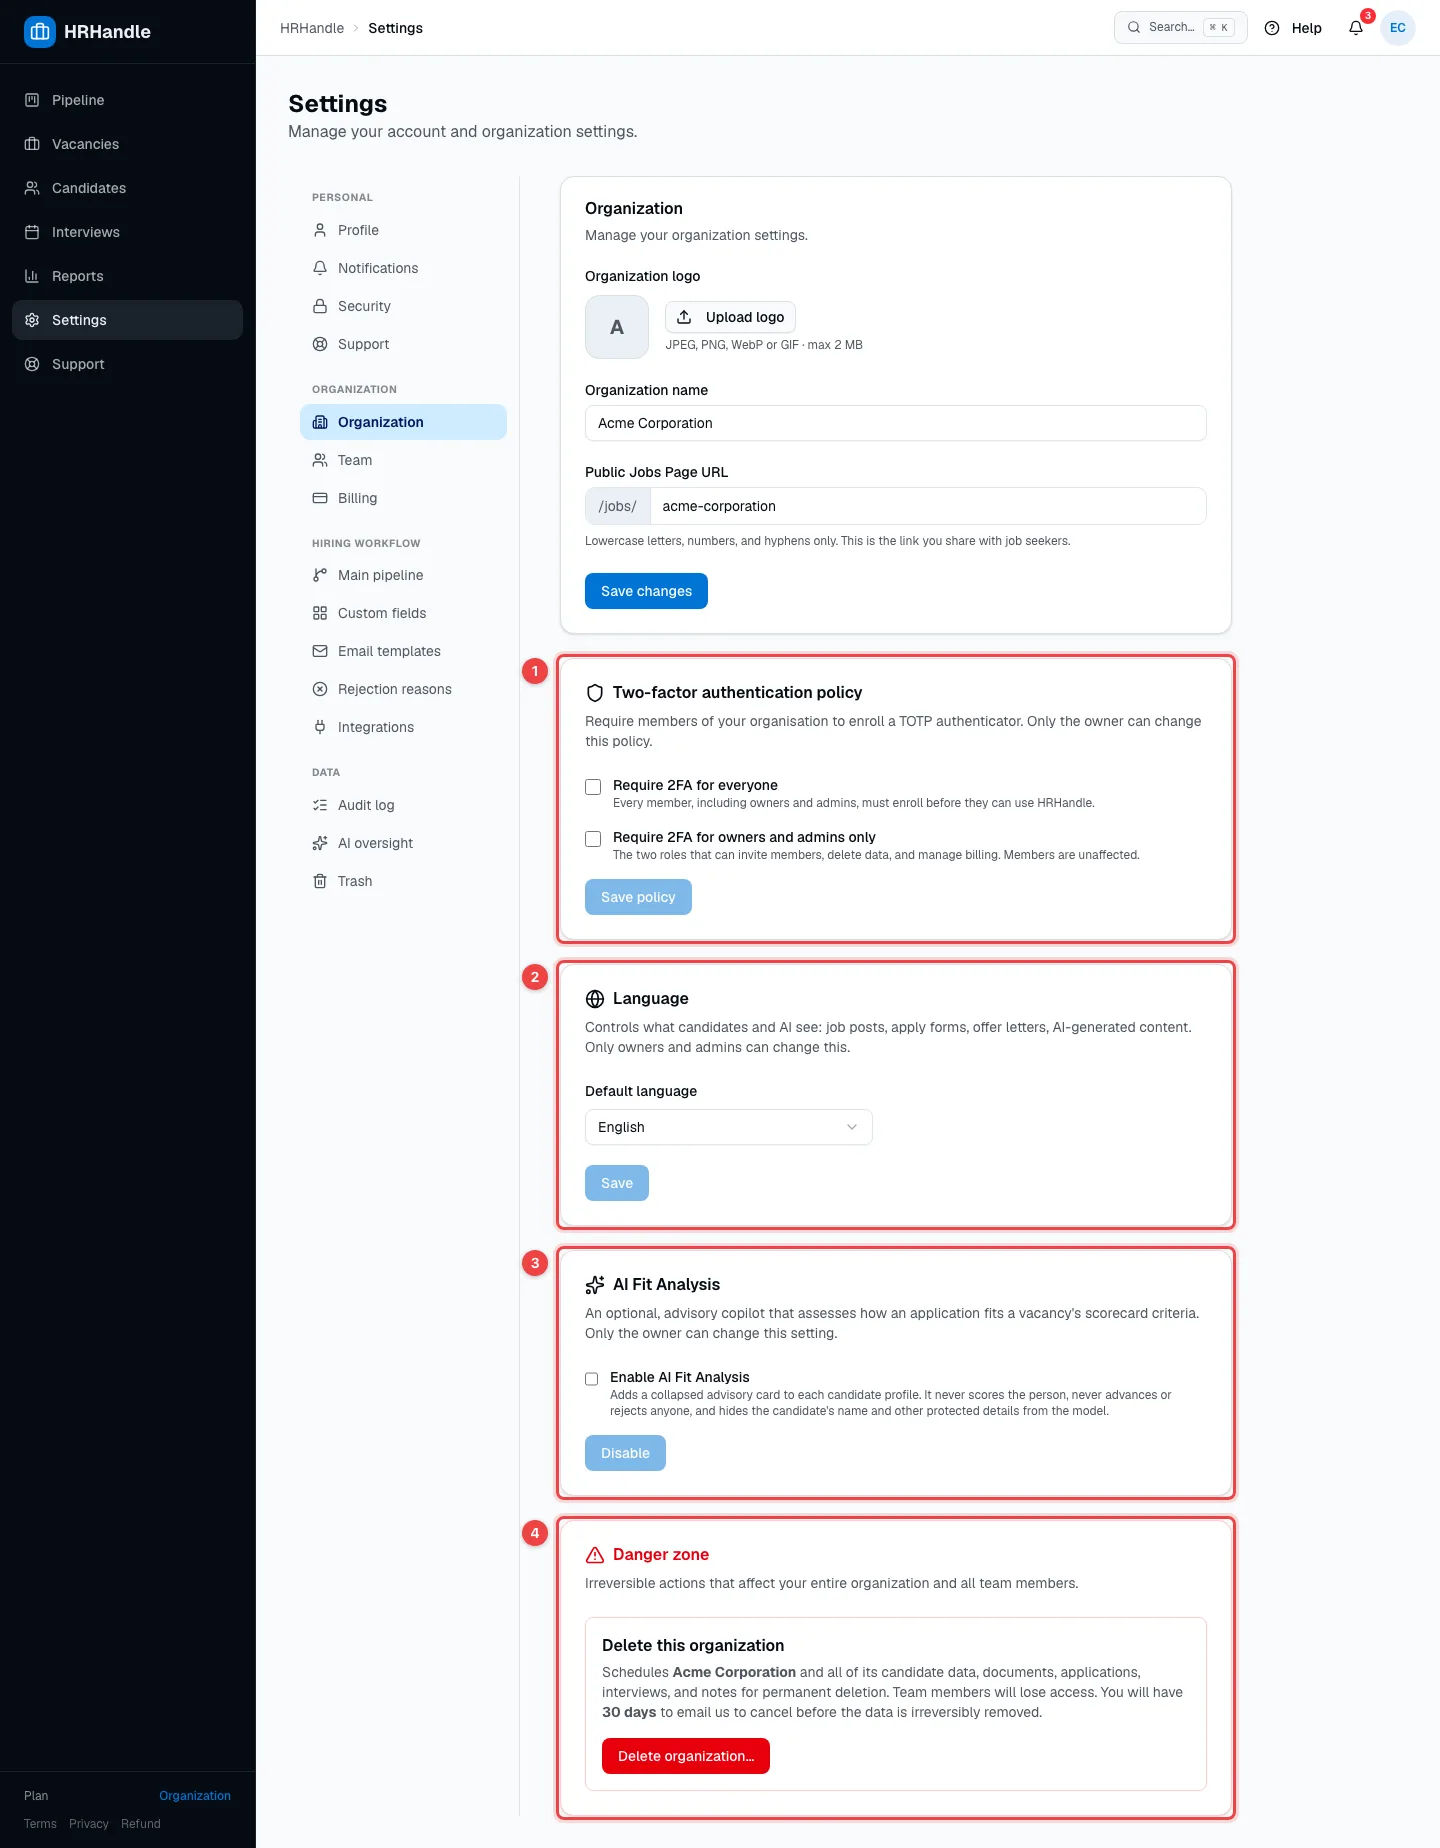
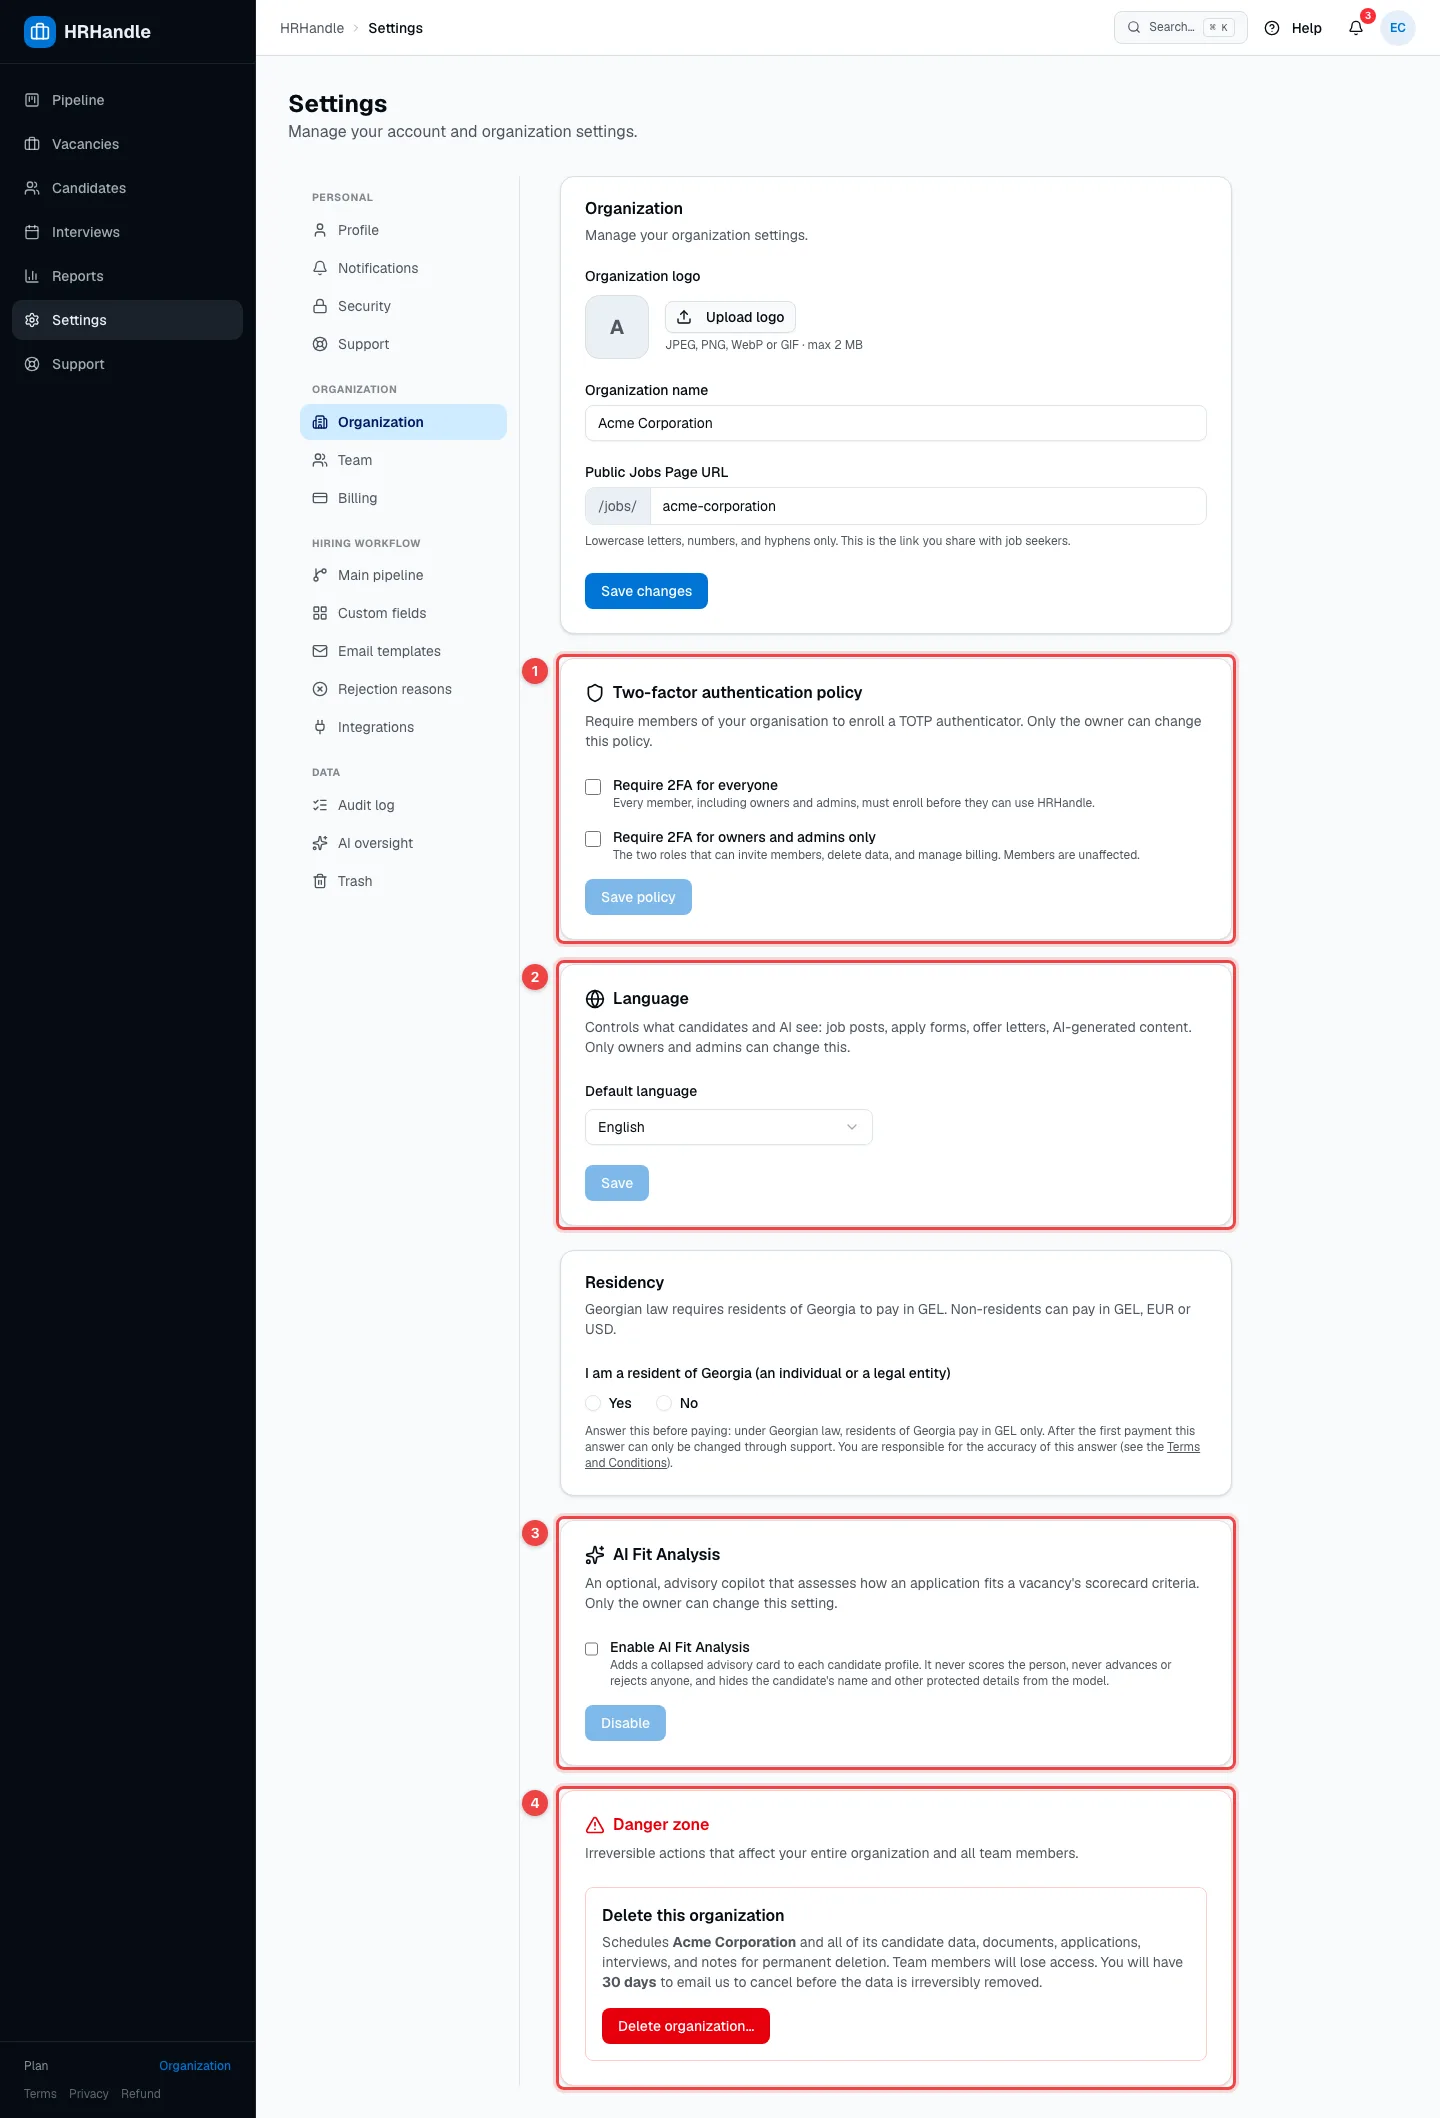
docs(guide): residency screenshots for billing and organization settings (EN/KA/RU)

diff --git a/scripts/guide-flows/administration.ts b/scripts/guide-flows/administration.ts
@@ -169,9 +169,9 @@ const billing: Flow = {
       clip: dialog,
       clipPad: 32,
       marks: [
-        { target: dialog.getByRole('radiogroup'), n: 1, badge: 'left' },
+        { target: dialog.getByRole('radiogroup'), n: 1, badge: 'left', pad: 8 },
         { target: dialog.getByText(startsWith(t('billingResidency.youPay', { price: '' }))).locator('xpath=..'), n: 2, badge: 'left' },
-        { target: dialog.getByRole('button', { name: t('billingResidency.continue') }), n: 3, badge: 'left' },
+        { target: dialog.getByRole('button', { name: t('billingResidency.continue') }), n: 3, badge: 'right' },
       ],
     })
     await page.keyboard.press('Escape')

diff --git a/scripts/guide-flows/getting-started.ts b/scripts/guide-flows/getting-started.ts
@@ -215,7 +215,7 @@ const organizationSettings: Flow = {
     await ctx.shot('organization-residency', {
       clip: residency,
       clipPad: 40,
-      marks: [{ target: residency.getByRole('radiogroup'), n: 1, badge: 'left' }],
+      marks: [{ target: residency.getByRole('radiogroup'), n: 1, badge: 'left', pad: 8 }],
     })
   },
 }
